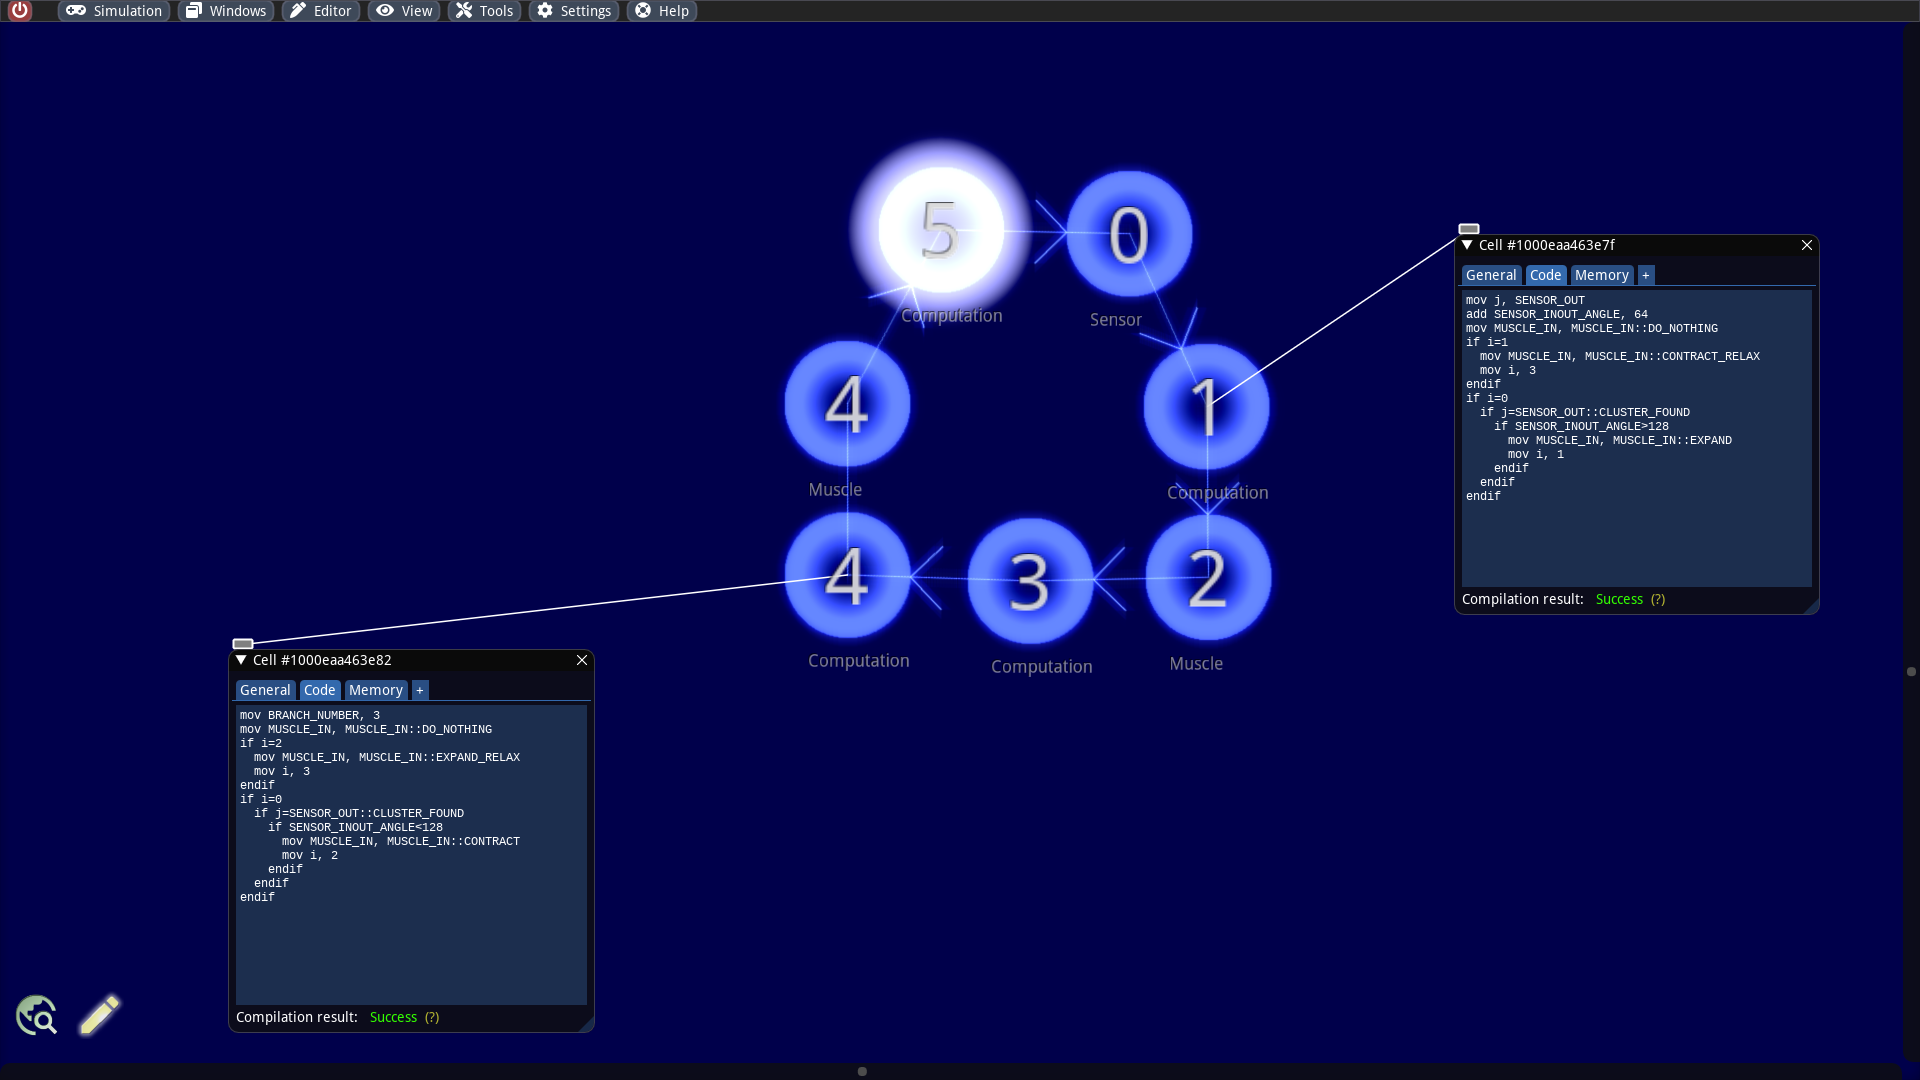
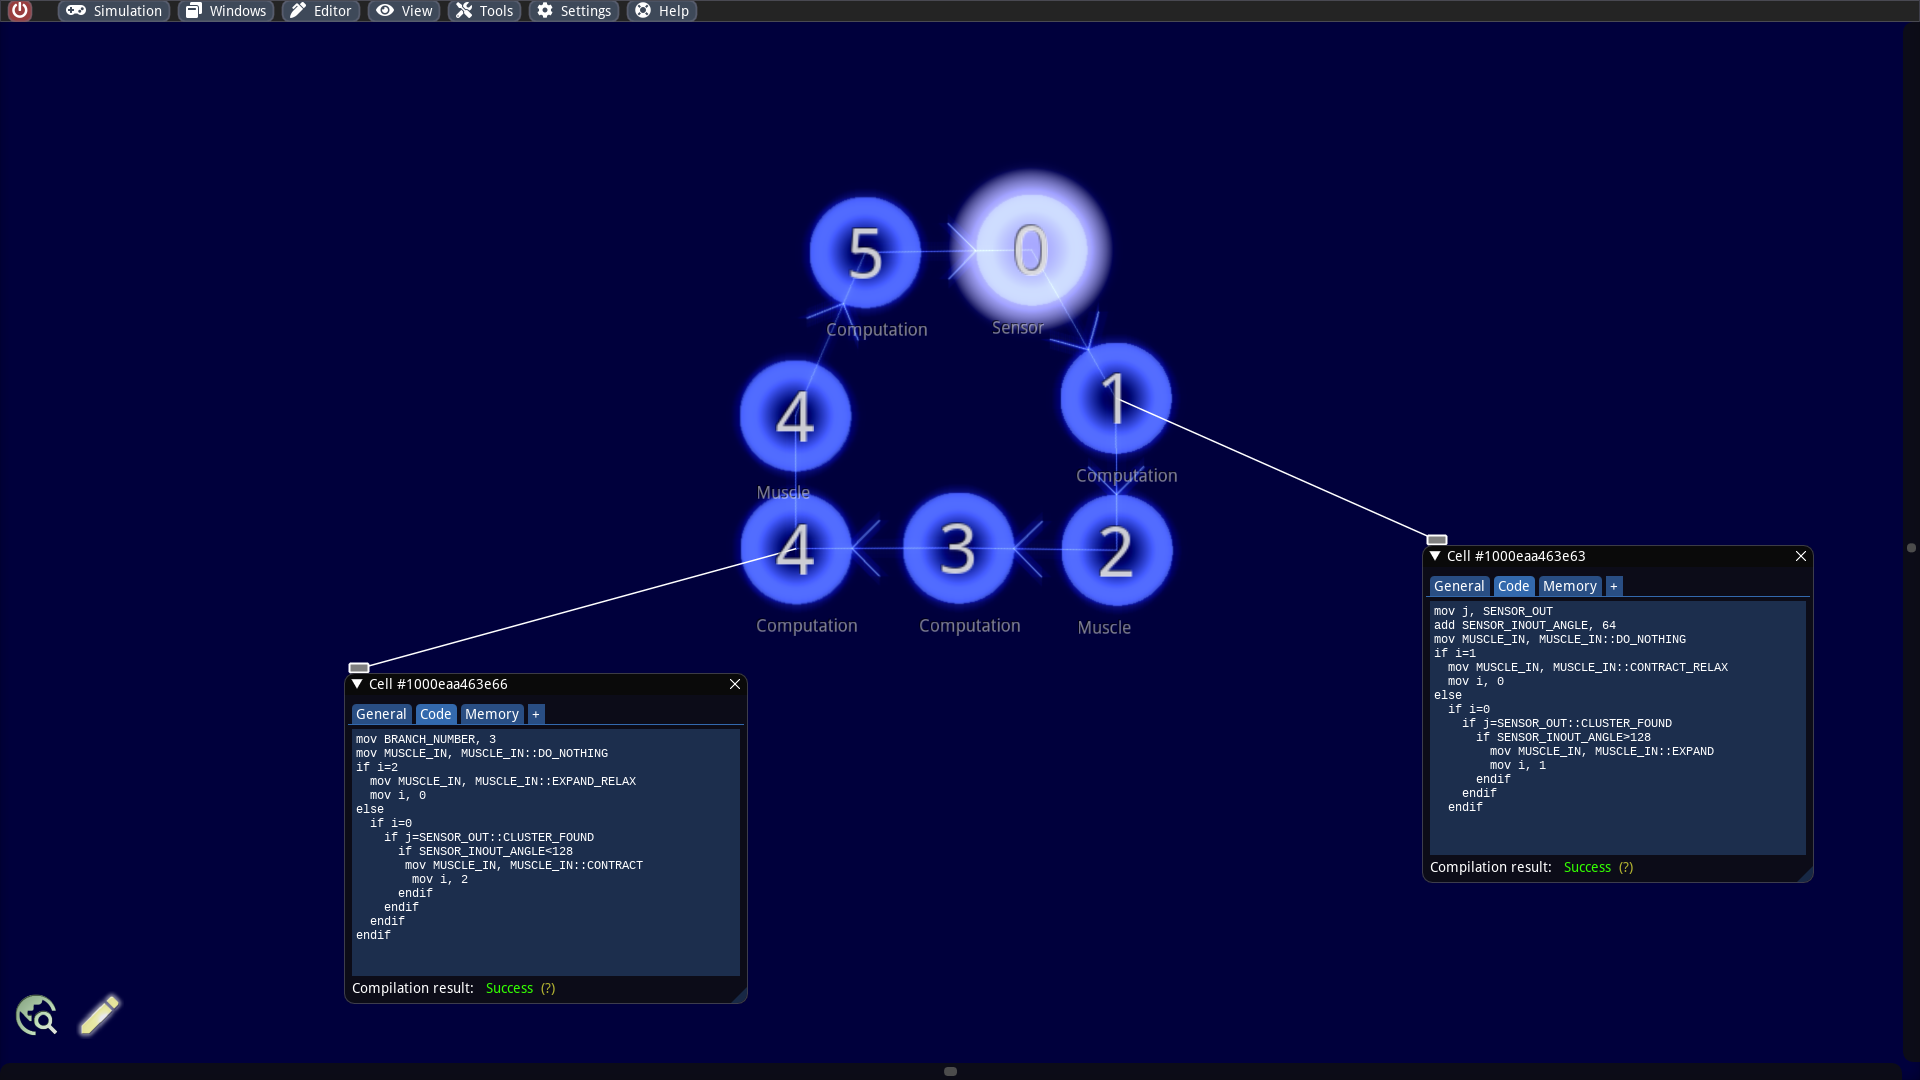
GitBook: [#213] No subject

Changed region(s): [[0.7188, 0.2139, 0.9688, 0.825], [0.3438, 0.1222, 0.6875, 0.6417], [0.0938, 0.55, 0.4062, 0.9778]]

diff --git a/dive-a-little-deeper/cell-programming/simple-swarmbot.md b/dive-a-little-deeper/cell-programming/simple-swarmbot.md
@@ -63,16 +63,16 @@ add SENSOR_INOUT_ANGLE, 64
 mov MUSCLE_IN, MUSCLE_IN::DO_NOTHING
 if i=1
   mov MUSCLE_IN, MUSCLE_IN::CONTRACT_RELAX
-  mov i, 3
-endif
-if i=0
-  if j=SENSOR_OUT::CLUSTER_FOUND
-    if SENSOR_INOUT_ANGLE>128
-      mov MUSCLE_IN, MUSCLE_IN::EXPAND
-      mov i, 1
+  mov i, 0
+else
+  if i=0
+    if j=SENSOR_OUT::CLUSTER_FOUND
+      if SENSOR_INOUT_ANGLE>128
+        mov MUSCLE_IN, MUSCLE_IN::EXPAND
+        mov i, 1
+      endif
     endif
   endif
-endif
 ```
 
 * Line 1: The memory cell which contains the return value from the sensor is stored in another memory cell with the symbol `j`. This is necessary because different cell functions sometimes use the same memory cell as output.
@@ -81,6 +81,10 @@ endif
 * Line 8 - 15: It is checked whether the memory cell `i` is equal to `0`. This is the case if no muscle operations were performed in the last cycle. It is then checked whether the sensor has found something and whether the target is on the left side (with respect to the orientation in the picture above). The muscle cell on the right hand side is instructed to perform an expansion together with a backward momentum, which will cause the swarmbot to turn left. The memory cell `i` is set to `1` to perform a contraction in the next cycle.
 * Line 4 - 7: The memory cell `i` is equal to `1` if an expansion was instructed in the last cycle. In order for the cell connection to regain its original reference distance, a contraction without an additional momentum is now instructed.
 
+{% hint style="info" %}
+In the code one can see that an `endif` is missing. It can be omitted at the end of a program. This is even necessary here, because a cell program can only consist of a maximum of 15 commands.
+{% endhint %}
+
 The program of the computation cell on the left side works analogously with the difference that here a forward momentum must be generated to initiate a clockwise rotation. This is due to the fact that the token reaches the muscle cell from below while in the right side it reaches the muscle cell from above.
 
 ```
@@ -88,20 +92,21 @@ mov BRANCH_NUMBER, 3
 mov MUSCLE_IN, MUSCLE_IN::DO_NOTHING
 if i=2
   mov MUSCLE_IN, MUSCLE_IN::EXPAND_RELAX
-  mov i, 3
-endif
-if i=0
-  if j=SENSOR_OUT::CLUSTER_FOUND
-    if SENSOR_INOUT_ANGLE<128
-      mov MUSCLE_IN, MUSCLE_IN::CONTRACT
-      mov i, 2
+  mov i, 0
+else
+  if i=0
+    if j=SENSOR_OUT::CLUSTER_FOUND
+      if SENSOR_INOUT_ANGLE<128
+       mov MUSCLE_IN, MUSCLE_IN::CONTRACT
+        mov i, 2
+      endif
     endif
   endif
 endif
 ```
 
 * Line 1: Here a new branch number is assigned to the token. Normally the token obtains the branch number of the underlying cell. However, in our case we want the token to jump from the cell with the number 4 to the cell above with the same number. Since tokens always jump to the cells with the next higher number, we have to set the branch number of the token to 3.
-* Line 2 - 14: The code works similarly to the previous one with the difference that we first perform a contraction and then an expansion. Since this results in a right turn, this operation is only performed when the sensor has found a target on the right side.
+* Line 2 - 15: The code works similarly to the previous one with the difference that we first perform a contraction and then an expansion. Since this results in a right turn, this operation is only performed when the sensor has found a target on the right side.
 
 Our machine would not work properly yet. For this we still need to adjust the sensor appropriately.
 
@@ -111,6 +116,26 @@ A cell with a sensor is able to detect particle concentrations with a certain mi
 
 ![Illustration of the operation of a sensor](../../.gitbook/assets/sensor.svg)
 
-To understand the functionality, we consider the cell of the sensor and the predecessor cell of the token. In the graphic above we see in the center a sensor cell to which a token jumps from a cell connected on the left. From the relative position of both cells we can define what means _front_ and _back_. In the case above, e.g., the direction to the right is specified as the front.
+To understand the functionality, we consider the cell of the sensor and the predecessor cell of the token. In the graphic above we see in the center a sensor cell to which a token jumps from a cell connected on the left. From the relative position of both cells we can define what means _front_ and _back_. In the case above, e.g., the direction to the right (sensor line) is specified as the front.
 
 We now assume that we want to search for nearby green particle assemblages. In our illustration, three colored clusters can be seen. The cluster with the smallest distance is yellow and then two green ones follow. Our sensor would detect the middle one and would measure the relative distance _d_ and the relative angle _α_ from that cluster. The sign of the angle gives us the information whether the target is above or below the sensor line. Since the determined target in our case is below the sensor line (red shaded area), the angle is positive.
+
+## Implementation of a sensor control
+
+The control of a sensor is relatively simple compared to the muscle cells. We only need to set a few options that provide the needed information for the sensor. For this purpose we can place the following small program in the upper left computation cell for our swarmbot.
+
+![](<../../.gitbook/assets/sensor programming.PNG>)
+
+The code reads as:
+
+```
+mov SENSOR_IN, SENSOR_IN::SEARCH_VICINITY
+mov SENSOR_IN_MIN_DENSITY, 5
+mov SENSOR_IN_COLOR, 1
+```
+
+The code is actually self-explanatory. A sensor knows two different working modes, which are defined in the memory cell SENSOR\_IN:
+
+* The scanning of the entire vicinity, which is indicated by the value SENSOR\_IN::SEARCH\_VICINITY.
+* Scanning of a certain direction for which it is necessary to set the value SENSOR\_IN::SEARCH\_BY\_ANGLE.
+
